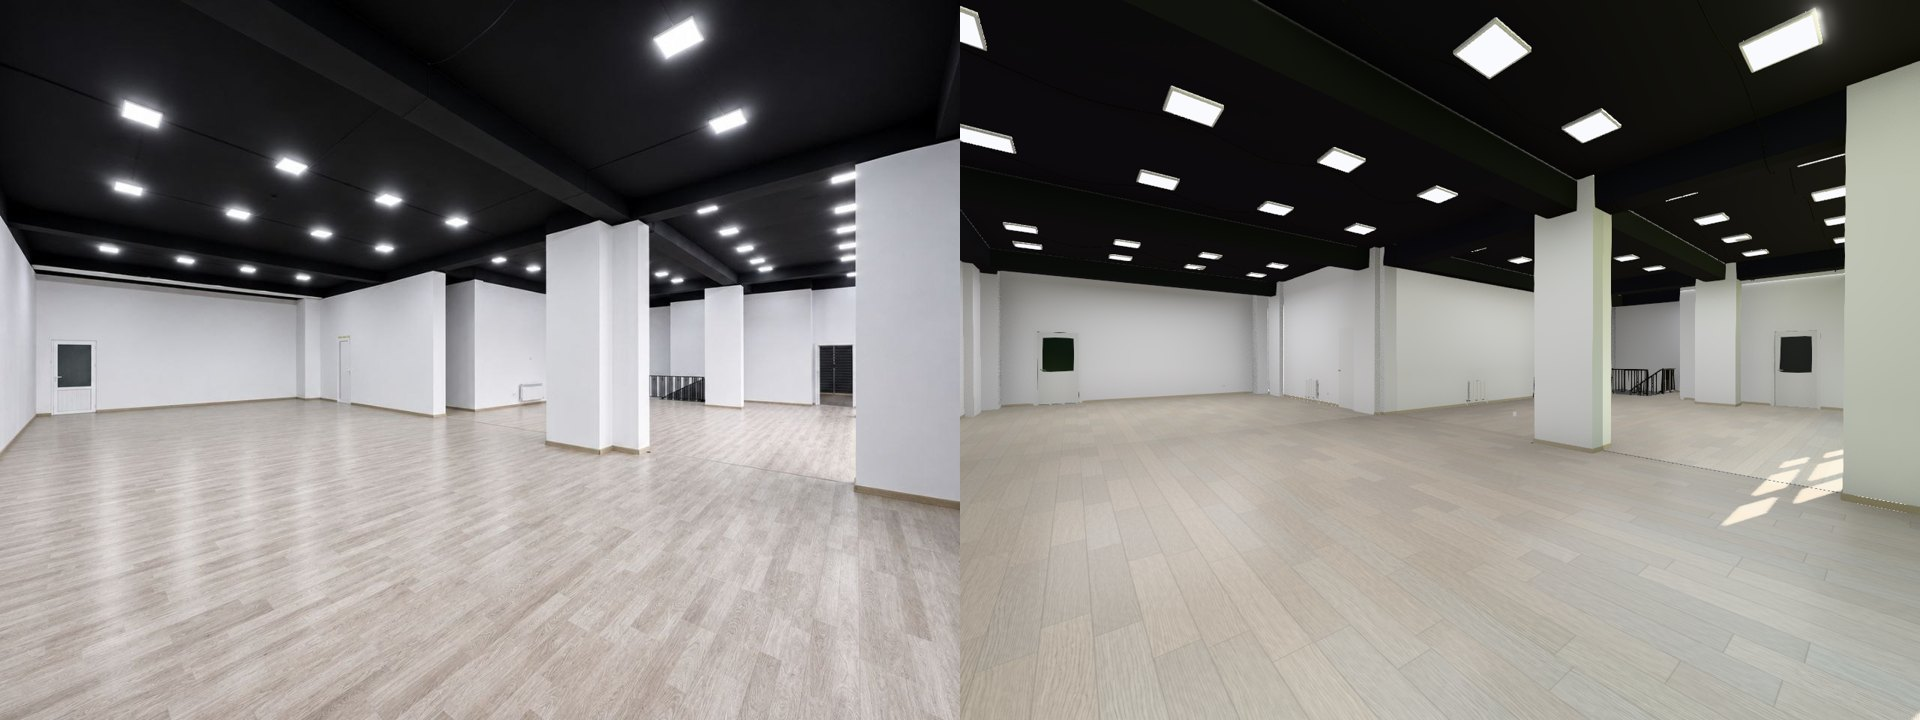
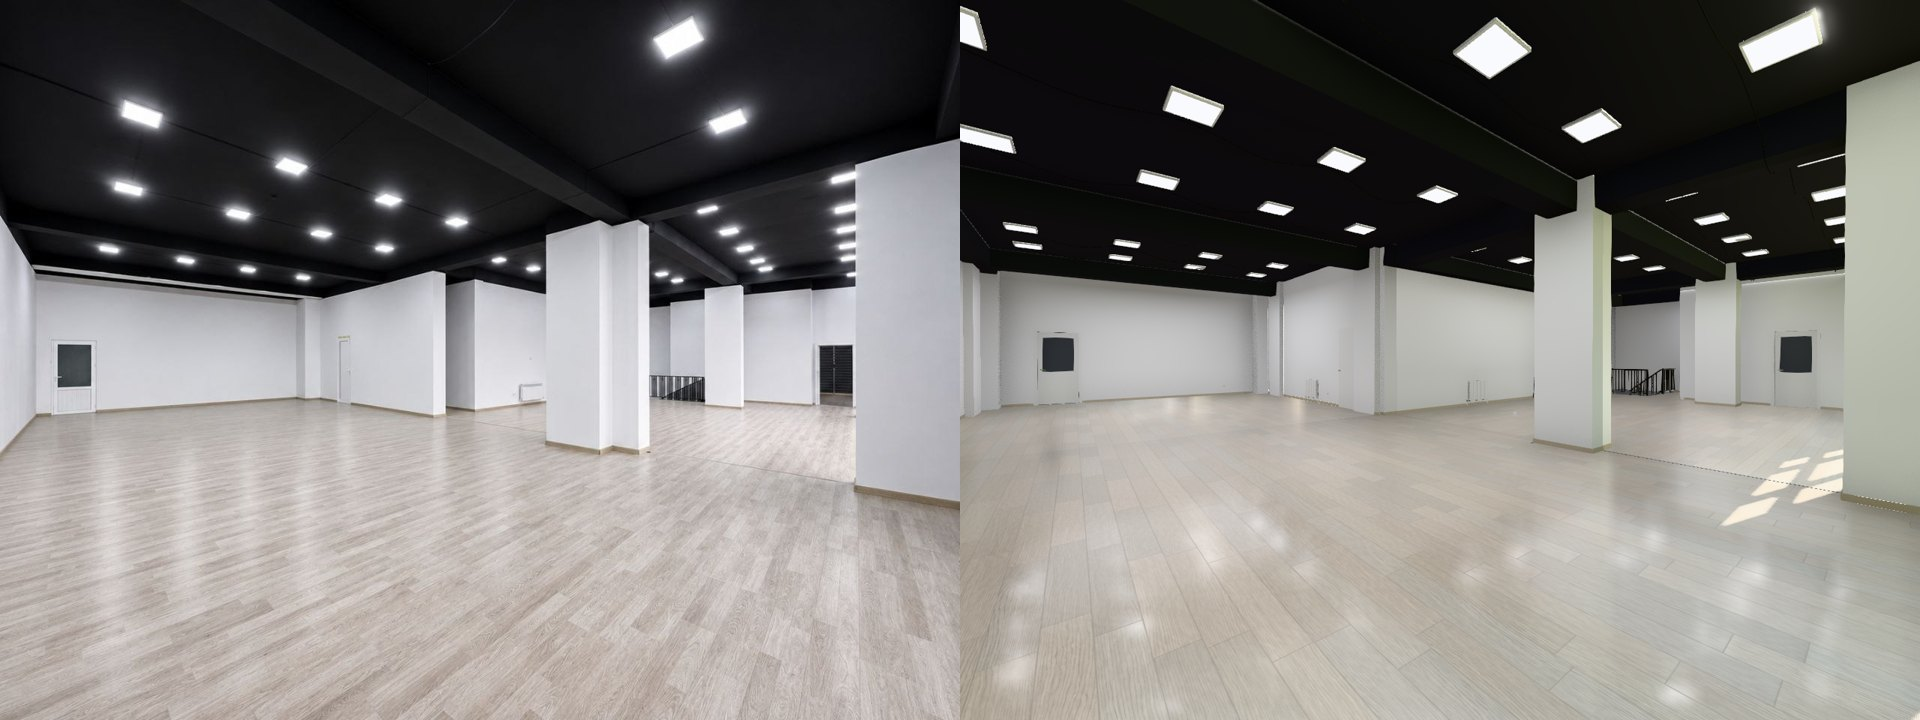
2-qavat: poldagi chiroq akslari (planar aks + lak qatlami), eshik oynasi kulrang
Claude-Session: https://claude.ai/code/session_01P9pQftsdzTnGheRvDppN9w

diff --git a/web/src/main.js b/web/src/main.js
@@ -112,6 +112,8 @@ async function main() {
 	const overhead = [ ceilingGroup, ...fixtures.children.filter( ( o ) => /chandelier|panel/.test( o.name ) ), ...stair.children.filter( ( o ) => false ) ];
 
 	const reflection = new FloorReflection( floor, { resolution: 0.35 } );
+	// 2-qavat laminati: chiroqlarning poldagi aksi (rasm 21)
+	const reflection2 = new FloorReflection( floor2.userData.floors, { resolution: 0.35, y: Y2 } );
 
 	// ---------- Osmon / quyosh ----------
 	setLoad( 0.25, 'Ko\'cha manzarasi yuklanmoqda…' );
@@ -188,7 +190,7 @@ async function main() {
 		// probe'larga "pishiriladi", real vaqtda esa og'ir hisob qilinmaydi.
 		before: () => {
 
-			reflection.uniforms.reflStrength.value = 0;
+			reflection.uniforms.reflStrength.value = reflection2.uniforms.reflStrength.value = 0;
 			hdrBackground( true );
 			params.areaLights = true;
 			applyLightLevels( lights, mats, params );
@@ -196,7 +198,7 @@ async function main() {
 		},
 		after: () => {
 
-			reflection.uniforms.reflStrength.value = 1;
+			reflection.uniforms.reflStrength.value = reflection2.uniforms.reflStrength.value = 1;
 			hdrBackground( false );
 			params.areaLights = false;
 			applyLightLevels( lights, mats, params );
@@ -207,7 +209,7 @@ async function main() {
 	console.log( 'bake done', Math.round( performance.now() - t0 ) );
 	setLoad( 0.88, 'Akslar tayyorlanmoqda…' );
 	await frame();
-	reflection.uniforms.reflStrength.value = 0;
+	reflection.uniforms.reflStrength.value = reflection2.uniforms.reflStrength.value = 0;
 	hdrBackground( true );
 	const envSize = LITE ? 64 : 128;
 	const p1 = new THREE.Vector3( 3.6, 1.5, 5.0 ), p2 = new THREE.Vector3( 11.0, Y2 + 1.7, 3.2 );
@@ -241,13 +243,13 @@ async function main() {
 
 		// Cubemap yoritishidagi yashil tusni (daraxtlar) neytral yumshoq to'ldiruvchi bilan muvozanatlash
 		scene.environmentIntensity = 0.7;
-		for ( const m of Object.values( m2 ) ) if ( m.isMeshStandardMaterial ) m.envMapIntensity = 0.7;
+		for ( const m of Object.values( m2 ) ) if ( m.isMeshStandardMaterial ) m.envMapIntensity = Math.min( m.envMapIntensity, 0.7 );
 		scene.add( new THREE.HemisphereLight( 0xfdfcf8, 0xb9b2a6, 0.55 ) );
 		params.exposure2 = 1.4;
 
 	}
 
-	reflection.uniforms.reflStrength.value = 1;
+	reflection.uniforms.reflStrength.value = reflection2.uniforms.reflStrength.value = 1;
 	console.log( 'GI bake ms', Math.round( performance.now() - t0 ) );
 
 	// Chiroqlar almashtirilganda GI fonda qayta hisoblanadi
@@ -307,7 +309,8 @@ async function main() {
 
 		} );
 		reflection.enabled = false;
-		reflection.uniforms.reflStrength.value = 0;
+		reflection2.enabled = false;
+		reflection.uniforms.reflStrength.value = reflection2.uniforms.reflStrength.value = 0;
 
 	}
 
@@ -551,6 +554,7 @@ async function main() {
 			composer.setSize( w, h );
 			n8.setSize( w * pr, h * pr );
 			reflection.setSize( w * pr, h * pr );
+			reflection2.setSize( w * pr, h * pr );
 
 		}
 		pt.active && pt.tracer.updateCamera();
@@ -668,6 +672,7 @@ async function main() {
 		hemi.visible = outside;
 		scene.background = sky.bg;
 		reflection.enabled = ! LITE && cp.y < H;
+		reflection2.enabled = ! LITE && in2;
 		if ( !! params.floor2Live !== ( in2 && ! LITE ) ) {
 
 			params.floor2Live = in2 && ! LITE;
@@ -708,6 +713,8 @@ async function main() {
 				floor2.visible = f2;
 
 			}
+
+			if ( reflection2.enabled ) reflection2.update( renderer, scene, camera );
 			if ( composer ) {
 
 				const fast = moving && ! SHOT;

diff --git a/web/src/reflection.js b/web/src/reflection.js
@@ -5,9 +5,10 @@ import * as THREE from 'three';
 // g'adir-budurlikka qarab mip-blur qilinadi.
 export class FloorReflection {
 
-	constructor( floorMesh, { resolution = 0.5 } = {} ) {
+	constructor( floorMesh, { resolution = 0.5, y = 0 } = {} ) {
 
-		this.mesh = floorMesh;
+		this.meshes = [].concat( floorMesh );
+		this.y = y;
 		this.resolution = resolution;
 		this.enabled = true;
 		this.rt = new THREE.WebGLRenderTarget( 2, 2, {
@@ -26,9 +27,11 @@ export class FloorReflection {
 			reflLodScale: { value: 7.0 },
 		};
 
-		const mat = floorMesh.material;
-		mat.onBeforeCompile = ( shader ) => {
+		const mat = this.meshes[ 0 ].material;
+		const prev = mat.onBeforeCompile;
+		mat.onBeforeCompile = ( shader, r ) => {
 
+			prev.call( mat, shader, r );
 			Object.assign( shader.uniforms, this.uniforms );
 			shader.vertexShader = shader.vertexShader
 				.replace( '#include <common>', '#include <common>\nuniform mat4 reflMatrix;\nvarying vec4 vReflUv;' )
@@ -45,11 +48,20 @@ export class FloorReflection {
 					vec2 e = smoothstep( vec2( 0.0 ), vec2( 0.03 ), ruv ) * smoothstep( vec2( 1.0 ), vec2( 0.97 ), ruv );
 					float k = e.x * e.y * reflStrength;
 					radiance = mix( radiance, refl, k );
+					#ifdef USE_CLEARCOAT
+					// lak qatlami: chiroqlarning aniqroq (lekin yumshoq) aksi
+					// laminat taxtalari bo'ylab cho'zilgan aks (rasm 21 dagi kabi vertikal chiziqlar)
+					float ccLod = clamp( material.clearcoatRoughness * reflLodScale + 1.2, 0.0, 8.0 );
+					vec3 ccRefl = vec3( 0.0 );
+					for ( int i = - 4; i <= 4; i ++ ) ccRefl += textureLod( tReflect, ruv + vec2( 0.0, float( i ) * 0.012 ), ccLod ).rgb;
+					ccRefl /= 9.0;
+					clearcoatRadiance = mix( clearcoatRadiance, ccRefl, k );
+					#endif
 				}` );
 
 		};
 
-		mat.customProgramCacheKey = () => 'floor-reflection';
+		mat.customProgramCacheKey = () => 'floor-reflection-' + y;
 
 	}
 
@@ -64,9 +76,9 @@ export class FloorReflection {
 		if ( ! this.enabled ) return;
 		const vc = this.virtualCamera;
 		const normal = new THREE.Vector3( 0, 1, 0 );
-		const pos = new THREE.Vector3( 0, 0, 0 );
+		const pos = new THREE.Vector3( 0, this.y, 0 );
 		const camPos = new THREE.Vector3().setFromMatrixPosition( camera.matrixWorld );
-		if ( camPos.y <= 0.001 ) return;
+		if ( camPos.y <= this.y + 0.001 ) return;
 
 		const view = pos.clone().sub( camPos );
 		view.reflect( normal ).negate().add( pos );
@@ -107,11 +119,11 @@ export class FloorReflection {
 		const prevShadow = renderer.shadowMap.autoUpdate;
 		renderer.xr.enabled = false;
 		renderer.shadowMap.autoUpdate = false;
-		this.mesh.visible = false;
+		for ( const m of this.meshes ) m.visible = false;
 		renderer.setRenderTarget( this.rt );
 		renderer.clear();
 		renderer.render( scene, vc );
-		this.mesh.visible = true;
+		for ( const m of this.meshes ) m.visible = true;
 		renderer.setRenderTarget( prevTarget );
 		renderer.xr.enabled = prevXr;
 		renderer.shadowMap.autoUpdate = prevShadow;

diff --git a/web/src/materials.js b/web/src/materials.js
@@ -118,7 +118,7 @@ export function createMaterials2( m ) {
 		roughnessMap: tex( 'tex/laminate_rough.jpg', { repeat: lr, aniso: 16 } ),
 		normalMap: tex( 'tex/laminate_normal.jpg', { repeat: lr, aniso: 16 } ),
 		roughness: 1, metalness: 0, ior: 1.5, specularIntensity: 0.9,
-		clearcoat: 0.4, clearcoatRoughness: 0.18, color: 0xfff8ef,
+		clearcoat: 0.6, clearcoatRoughness: 0.14, color: 0xfff8ef,
 	} );
 	m2.laminate.normalScale.set( 0.35, 0.35 );
 	// Rasm 21: taxtalar orasidagi ton farqi juda kam — kontrastni pasaytiramiz
@@ -137,7 +137,8 @@ export function createMaterials2( m ) {
 	m2.glassTint = m.glassTint;
 	m2.glassReflect = m.glassReflect.clone();
 	m2.pvc = new THREE.MeshPhysicalMaterial( { color: 0xf4f4f2, roughness: 0.32, clearcoat: 0.4, clearcoatRoughness: 0.2 } );
-	m2.darkGlass = new THREE.MeshPhysicalMaterial( { color: 0x2c2f33, roughness: 0.2, metalness: 0, clearcoat: 1, clearcoatRoughness: 0.05 } );
+	// eshik oynasi: kulrang (rasm 21) — uzoqdan ham yashil aks bermasligi uchun env aksi kuchsiz
+	m2.darkGlass = new THREE.MeshStandardMaterial( { color: 0x5b5e62, roughness: 0.35, metalness: 0, envMapIntensity: 0.25 } );
 	m2.metalDoor = new THREE.MeshStandardMaterial( { color: 0x2b2c2f, roughness: 0.48, metalness: 0.45 } );
 	m2.boiler = new THREE.MeshPhysicalMaterial( { color: 0xf1f1ef, roughness: 0.38, clearcoat: 0.3 } );
 	m2.boilerGrey = new THREE.MeshStandardMaterial( { color: 0x8e9296, roughness: 0.5 } );
